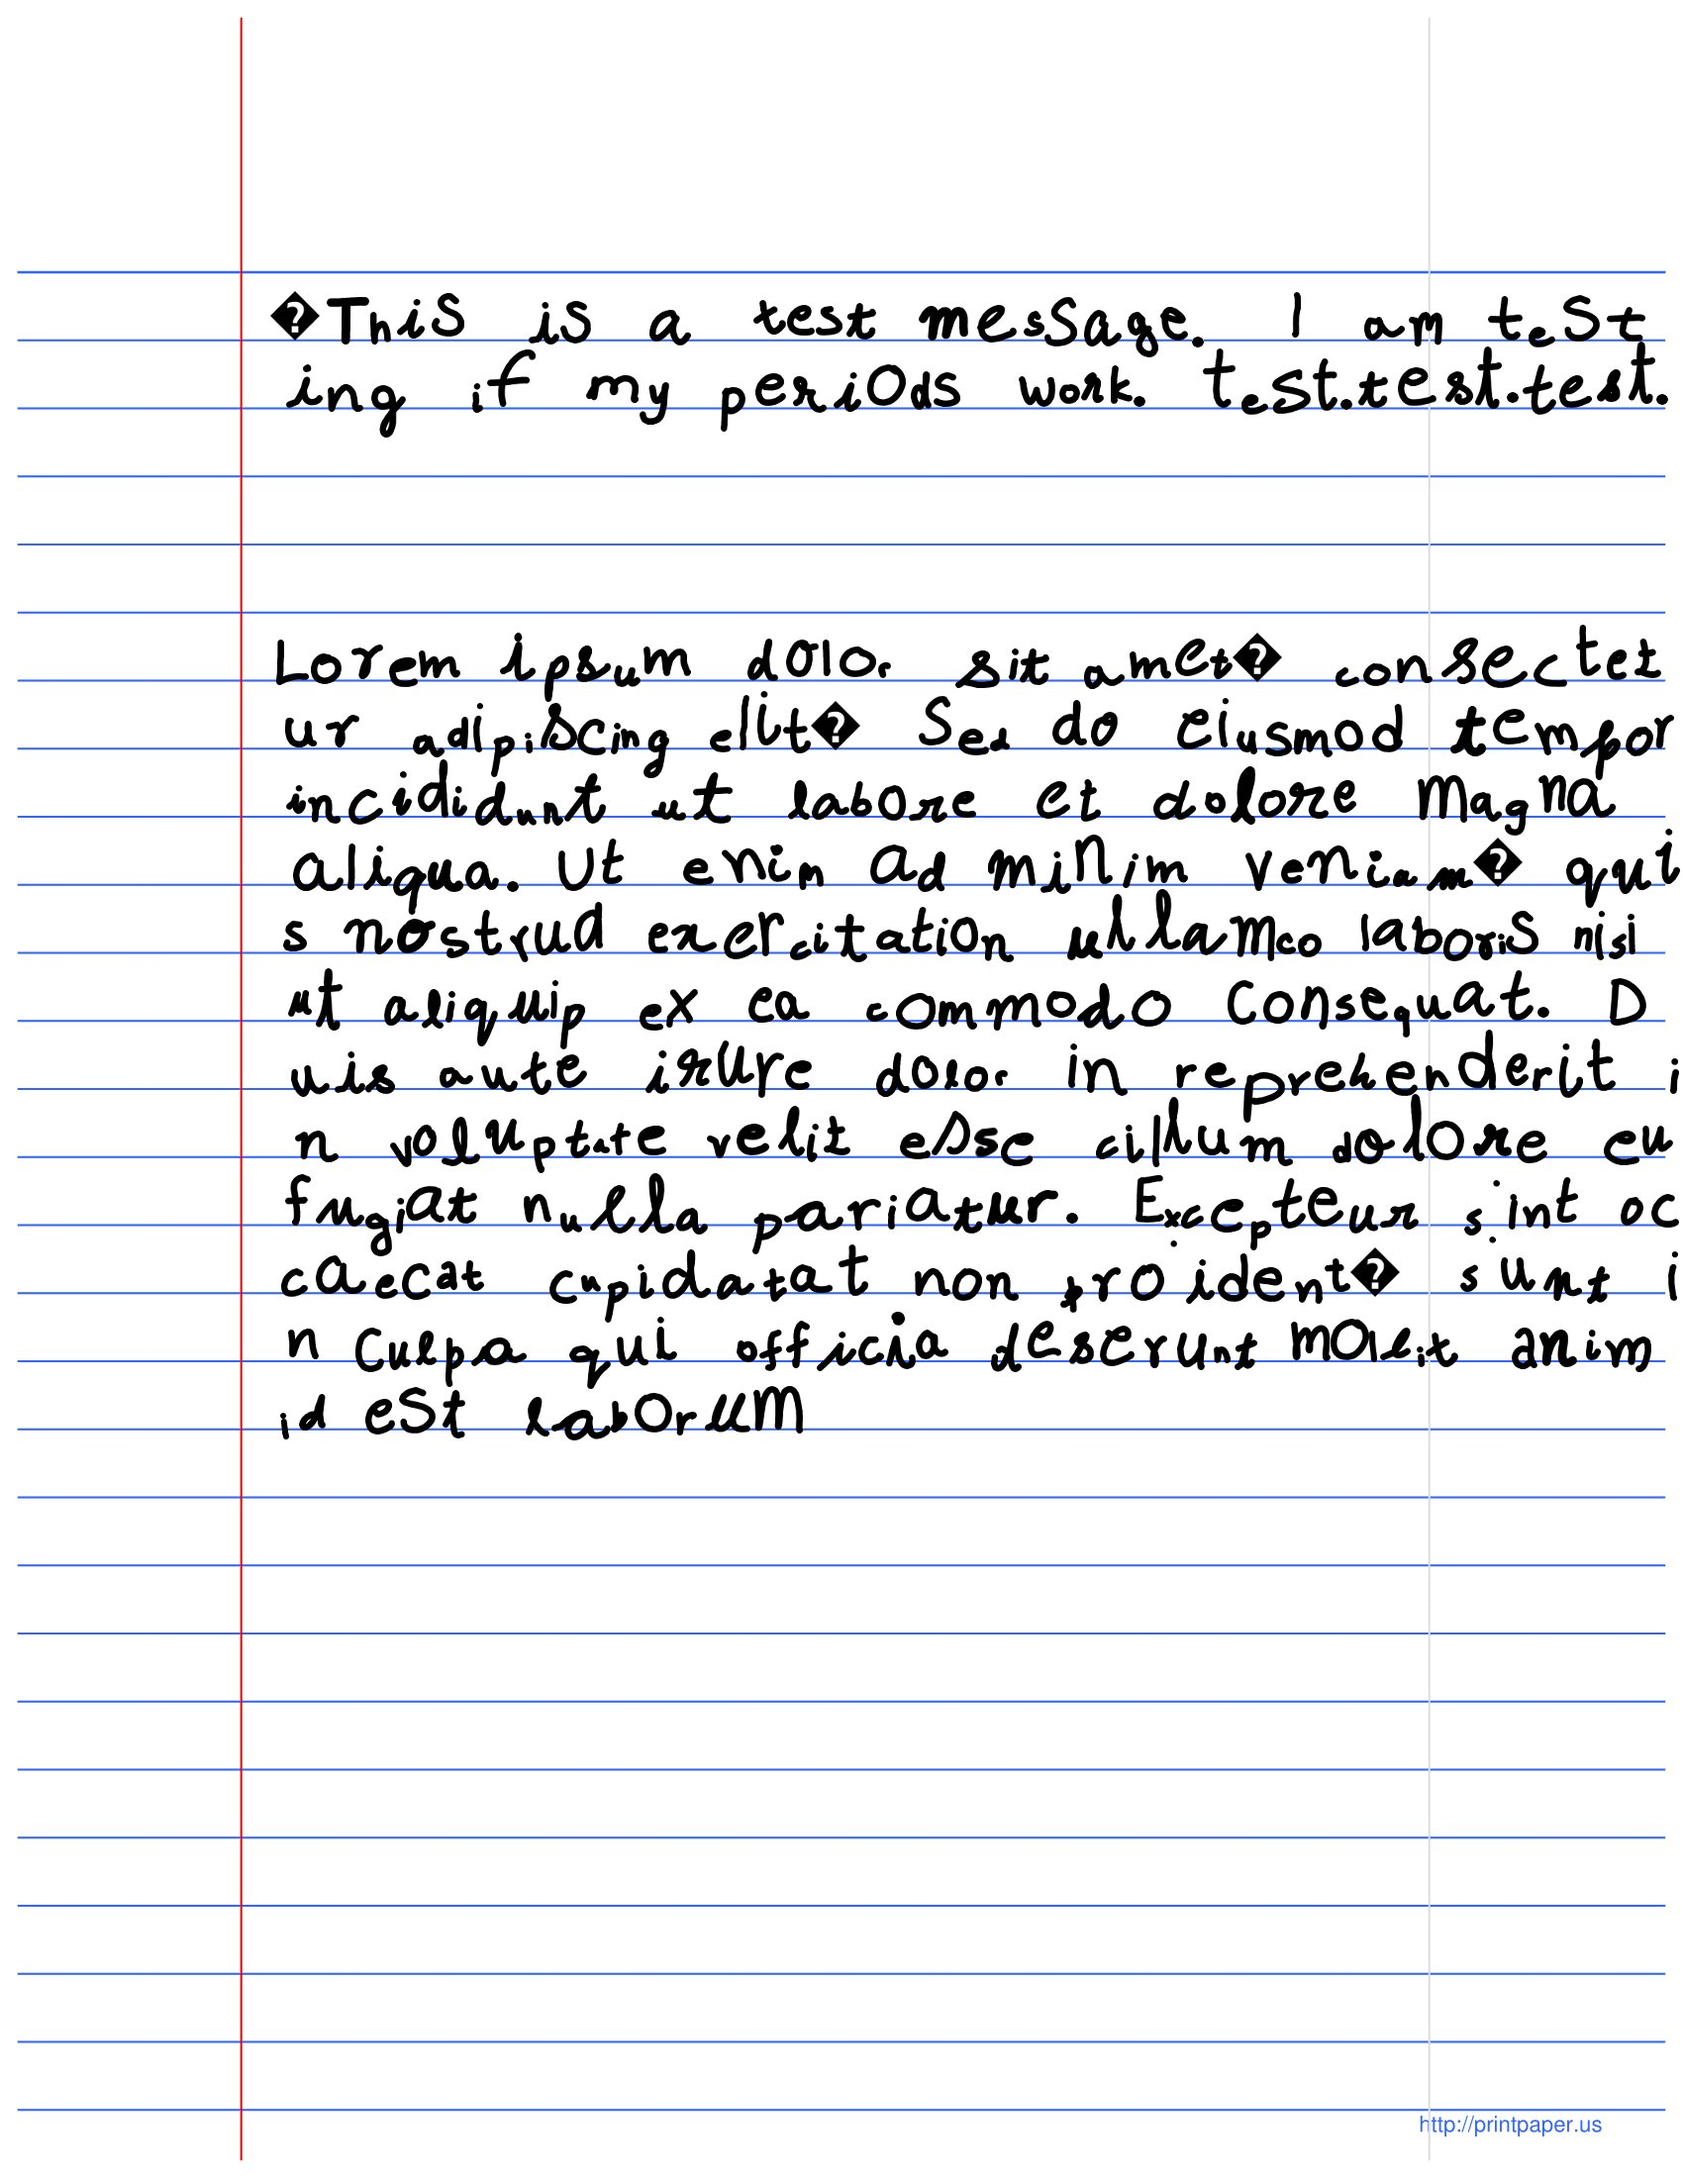
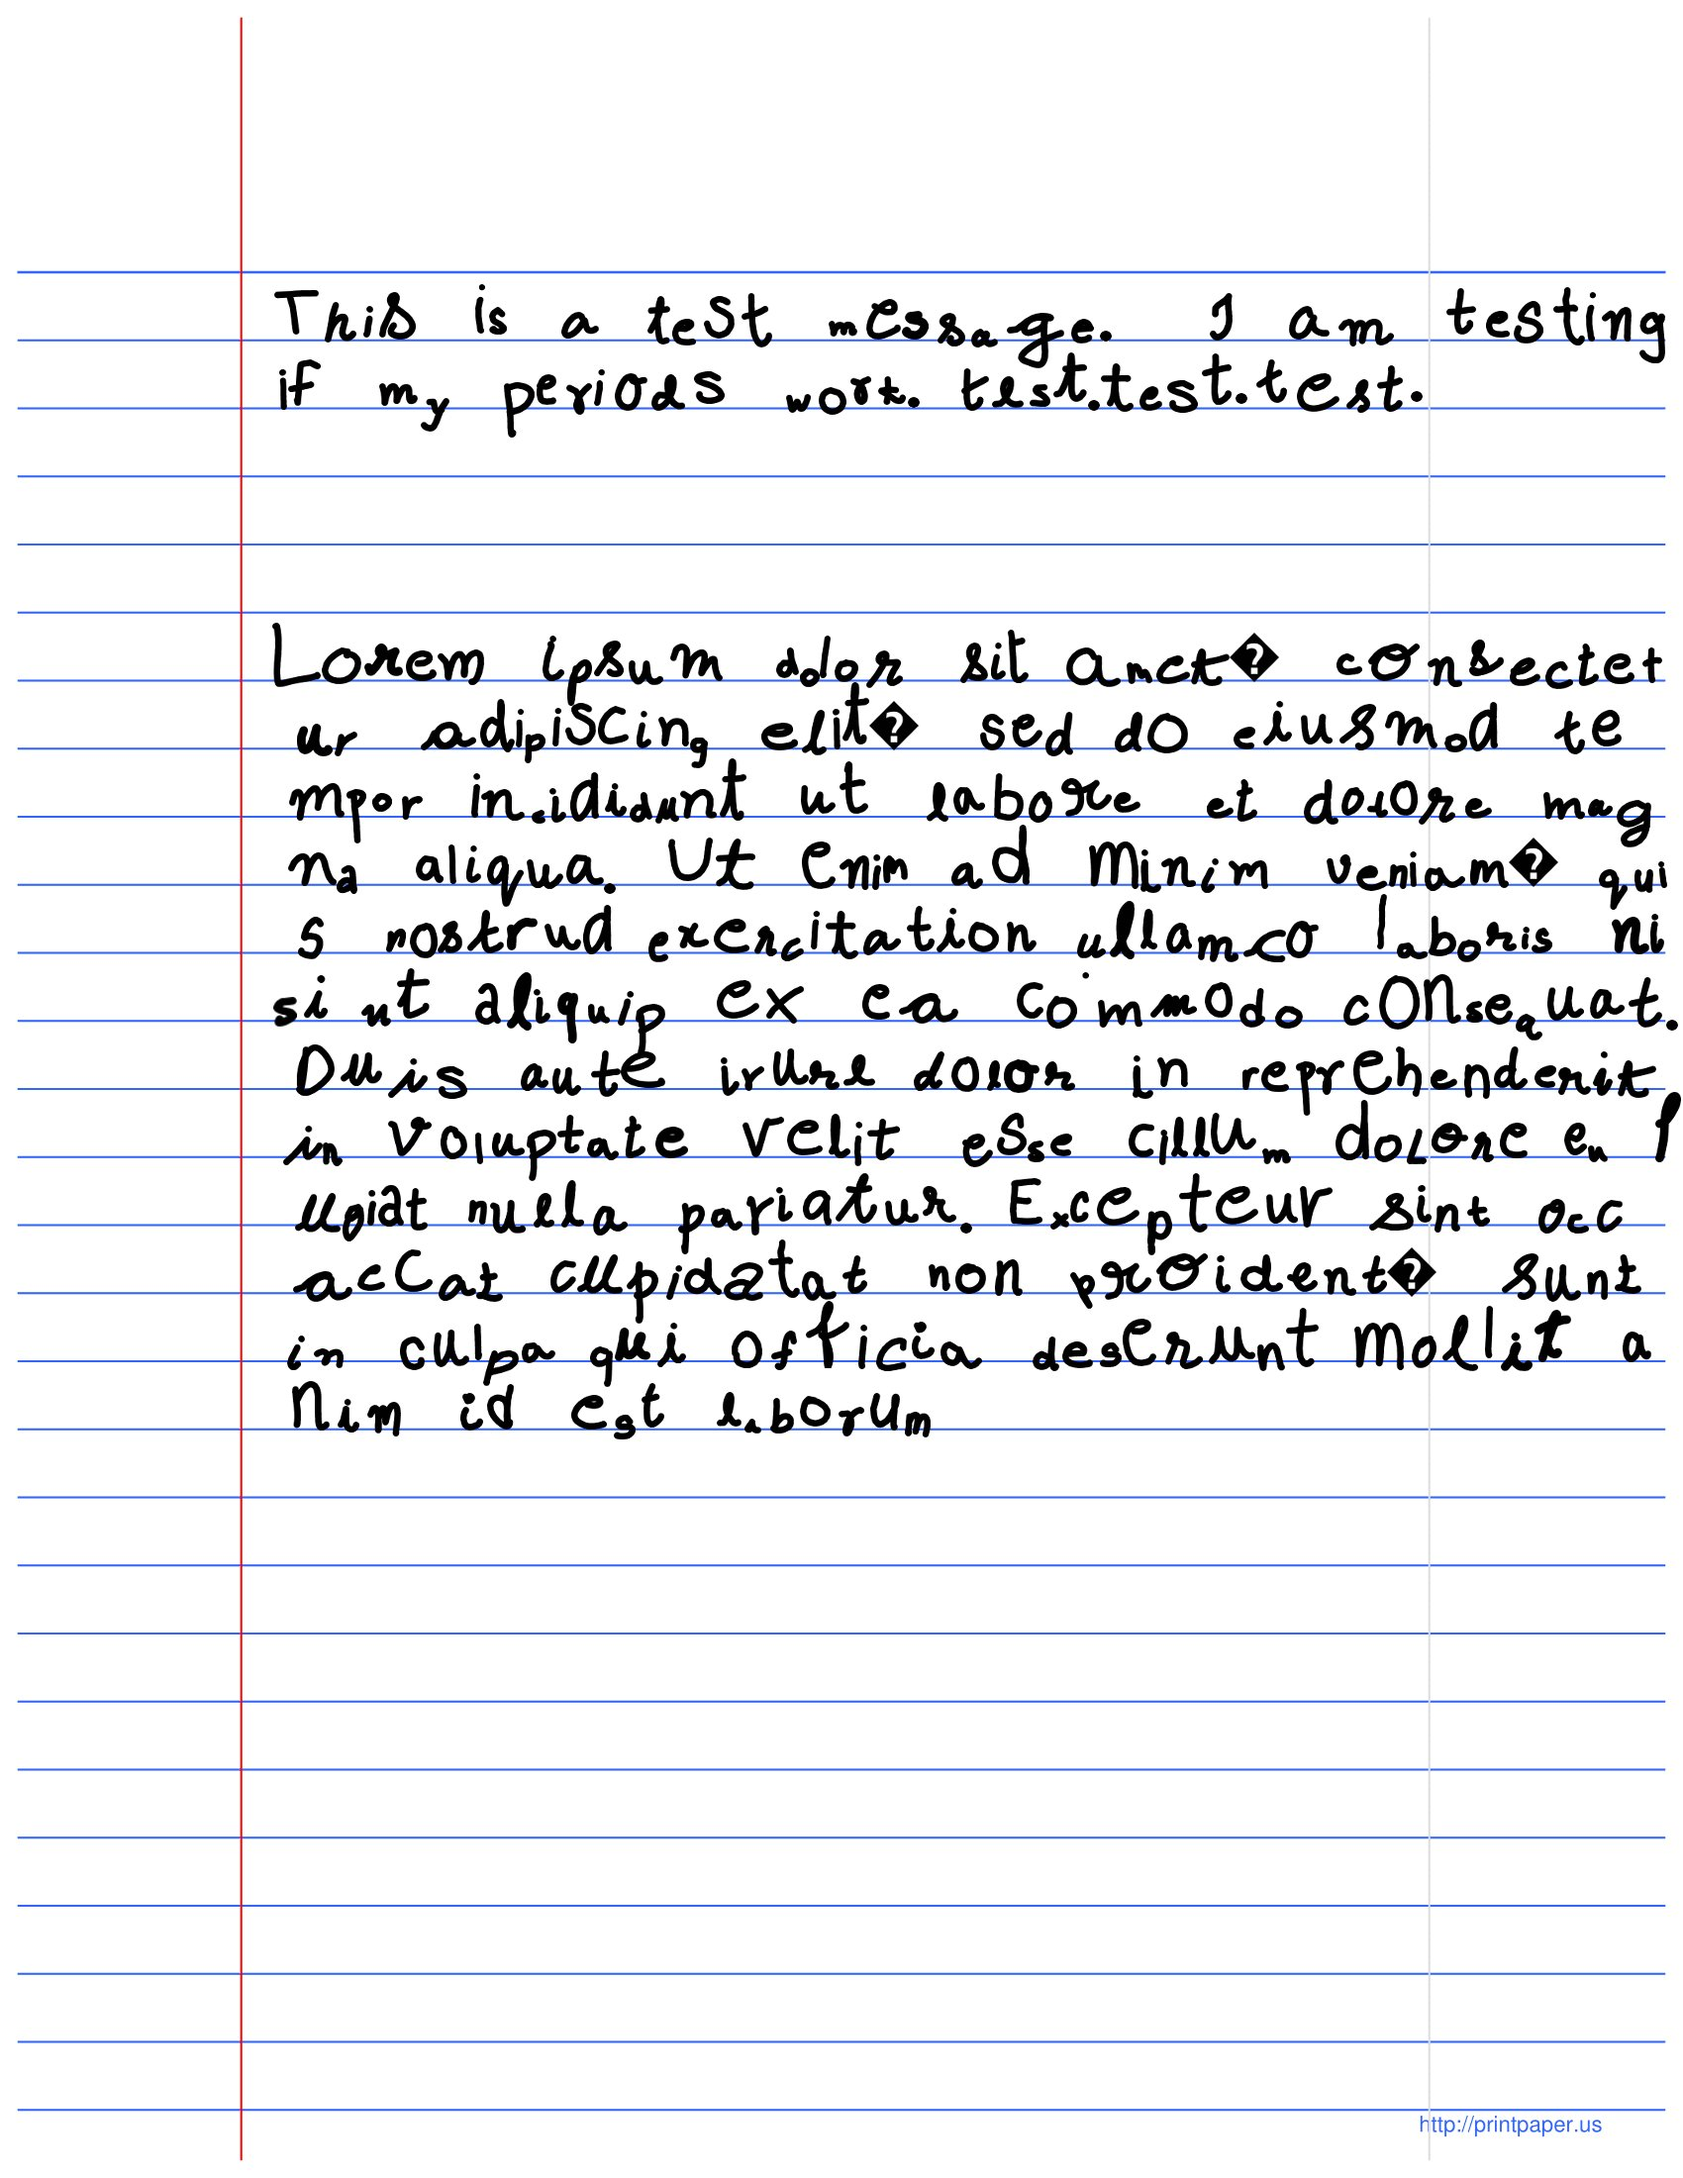
Fixed bug

Changed region(s): [[0.1559, 0.2782, 0.9976, 0.68], [0.1559, 0.1236, 0.9976, 0.2164]]

diff --git a/main.py b/main.py
@@ -37,7 +37,8 @@ def displayDocument(canvas, document):
 	#Current horizontal line
 	currentLine = 0
 
-	for char in list(document):
+	#For some reason the first char is blank and  is unknown, so just skip the first char
+	for char in list(document)[1:]:
 			
 		#Pick a random dict to use for this specific char
 		dictNum = random.randint(0, 52)
@@ -198,6 +199,7 @@ def displayDocument(canvas, document):
 		
 		#If char not in our dict, put unknown char symbol
 		else:
+			print(char)
 			unknownChar = pygame.image.load("assets/unknownChar.png")
 			
 			canvas.blit(unknownChar, (xStart + collectiveSpacing, yStart + currentLine * lineGap - unknownChar.get_rect().size[1]))
